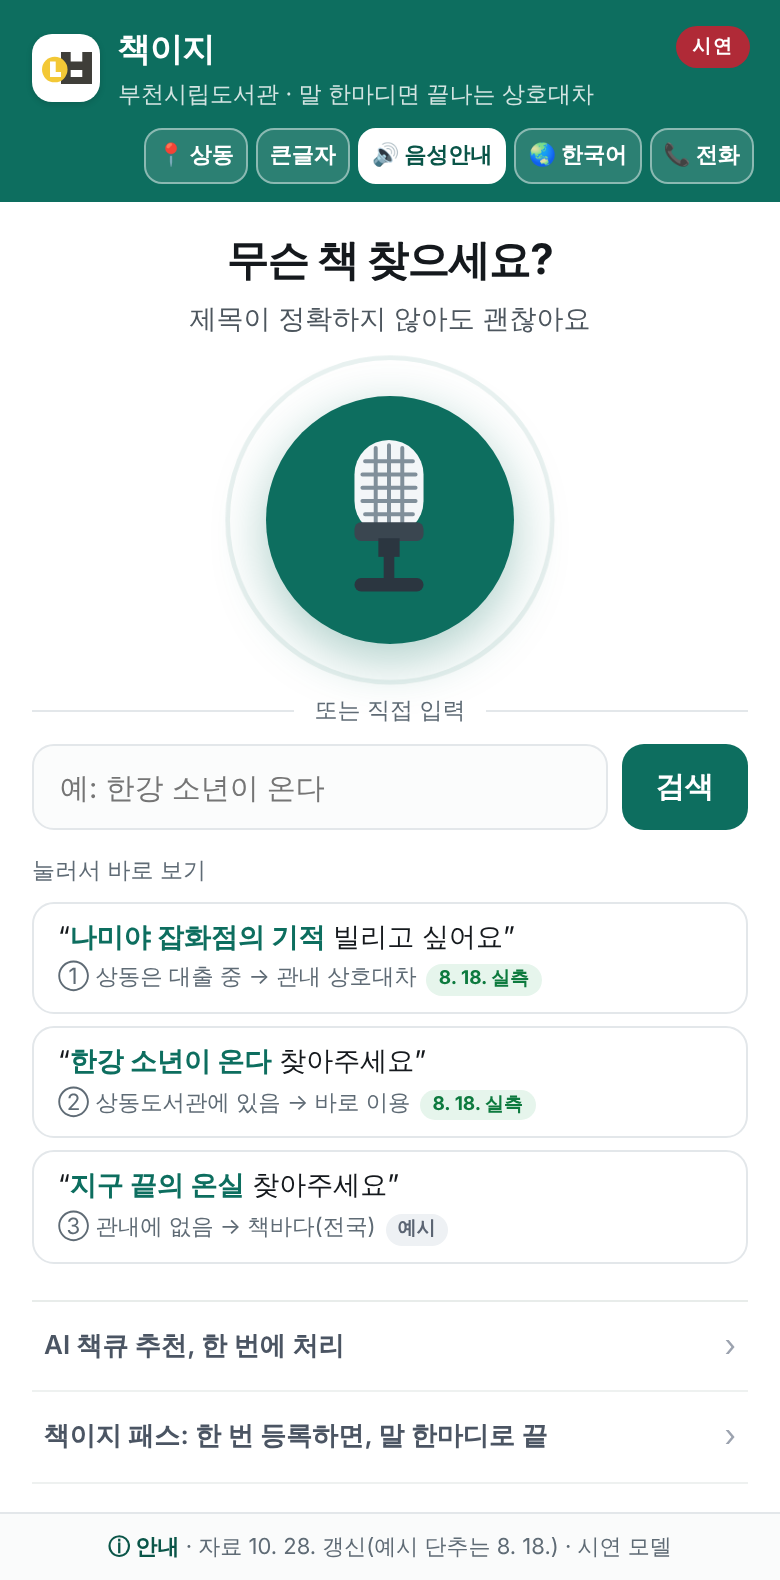
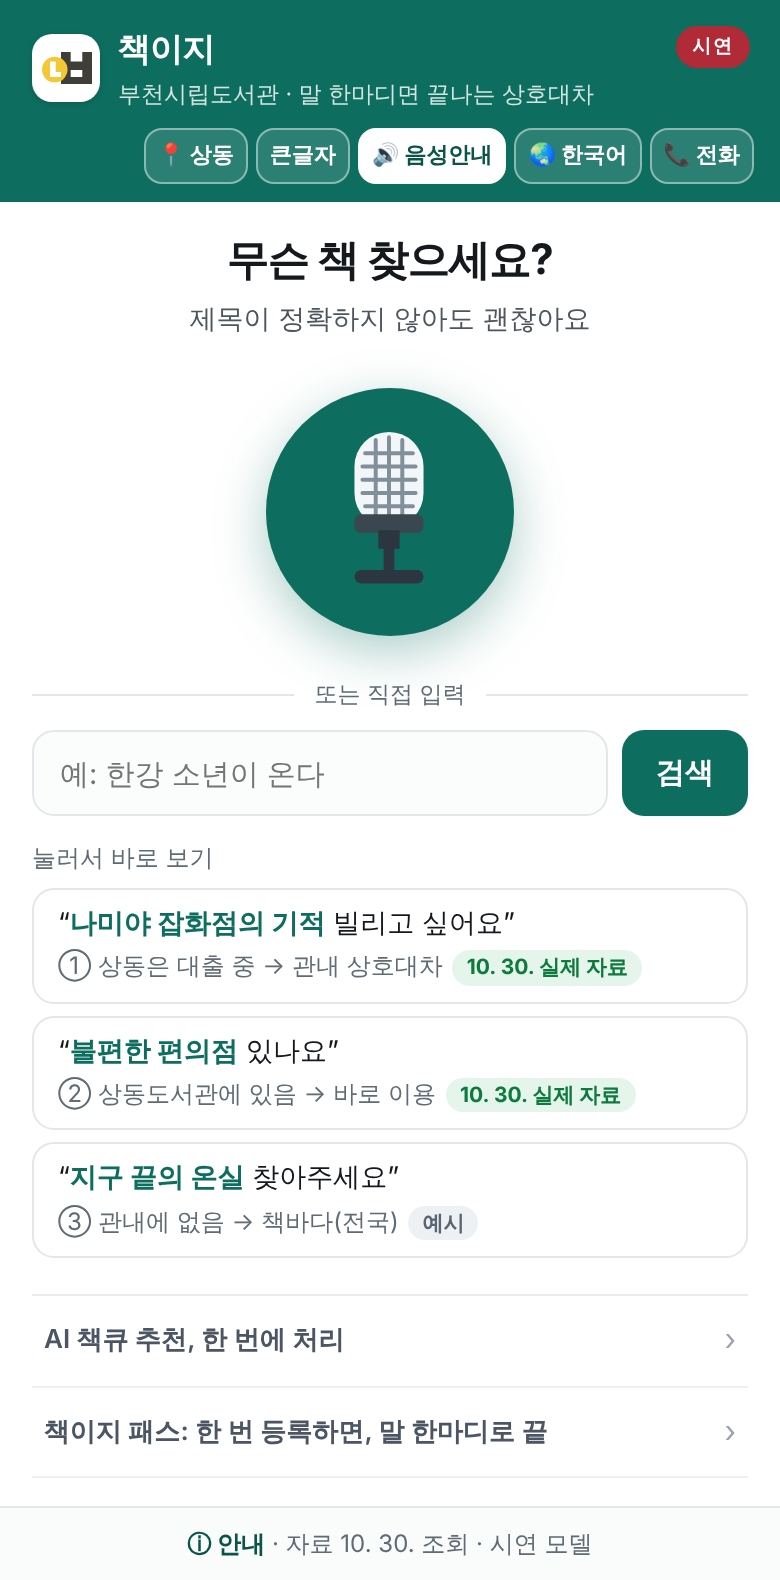
비교 장면 오른쪽을 직원 측정과 같은 순서로(1차 검수 독립 검토 지적, 담당자 10:44 승인): ① 「눌러서 시작하기」 ② 마이크 누르고 책 제목 말하기 ③ 「방문 안내 보기」, 「20초에 안내」
- 휴대폰 그림 5장을 v1.12.20·10. 30. 새벽 자료로 다시 찍음(shoot_app.py: 상동에 대출 가능한 시연 도서를 그날 자료에서 고름, 바깥 요청 0, 음성 인식만 흉내). 전에는 「상호대차 신청 · 네, 신청합니다」 흐름이라 측정(바로 이용 방문 안내)과 달랐음
- 머리글 「같은 책으로 재 보니 / 책이지 시연 화면은 3번 눌러 20초」, 띠 「끝: 누리집은 신청 버튼, 책이지는 「바로 이용」 방문 안내 · 화면은 따로 찍음」
- README 움짤 만드는 스크립트(make_gif.py, 960×540·초당 8장·128색)를 같은 그림에서 · record.py 4장면 글도 같게

Claude-Session: https://claude.ai/code/session_01TtT9xcbTP3NzSioNJT8Spd

diff --git a/tools/video/cmp/compare.html b/tools/video/cmp/compare.html
@@ -1,6 +1,6 @@
 <!doctype html>
 <html lang="ko"><head><meta charset="utf-8">
-<title>비교 장면 2판</title>
+<title>비교 장면 3판</title>
 <style>
 @font-face{font-family:'Pretendard';font-weight:400;src:url('../fonts/Pretendard-Regular.otf')}
 @font-face{font-family:'Pretendard';font-weight:500;src:url('../fonts/Pretendard-Medium.otf')}
@@ -70,7 +70,7 @@ html,body{margin:0;width:1280px;height:720px;overflow:hidden;background:#0f3d33;
 <div id="stage">
   <div id="crumb"><b>책이지</b> · 왜 만들었나</div>
   <div id="spdb">실제 걸린 시간을 <span id="spd">6</span>배 빨리 보여 줌</div>
-  <div id="hd"><div class="k">같은 책을 신청해 보면</div><div class="t">책이지는 <em>3번 눌러 20초</em></div><div class="s">누리집은 <b>18번 눌러 1분 20초</b></div></div>
+  <div id="hd"><div class="k">같은 책으로 재 보니</div><div class="t">책이지 시연 화면은 <em>3번 눌러 20초</em></div><div class="s">누리집은 <b>18번 눌러 1분 20초</b></div></div>
   <div class="panel" id="pa">
     <div class="ph"><span class="n">누리집(지금)</span><span class="d">로그인부터 신청 버튼까지</span><span class="tag">실제 화면 · 개인정보 가림</span></div>
     <div id="grid">
@@ -87,20 +87,23 @@ html,body{margin:0;width:1280px;height:720px;overflow:hidden;background:#0f3d33;
     <div class="meter"><div class="m"><span class="v" id="ca">0</span><span class="u">번 누름</span></div><div class="m"><span class="v" id="ta">0초</span><span class="u">걸린 시간</span></div></div>
   </div>
   <div class="panel" id="pb">
-    <div class="ph"><span class="n">책이지</span><span class="d">시연 화면</span><span class="tag">실제 화면</span></div>
-    <div id="phone"><img id="pimg" src="app_home.png" alt=""></div>
+    <div class="ph"><span class="n">책이지</span><span class="d">시연 화면 · 말로 묻기</span><span class="tag">실제 화면 · 따로 찍음</span></div>
+    <div id="phone"><img id="pimg" src="app_gate.png" alt=""></div>
     <div id="ptap"></div>
-    <div id="bsteps"><div data-n="1">책 제목을 말하거나 입력</div><div data-n="2">「상호대차 신청」</div><div data-n="3">「네, 신청합니다」</div></div>
-    <div id="stamp">✓ 20초 만에 끝</div>
+    <div id="bsteps"><div data-n="1">「눌러서 시작하기」</div><div data-n="2">마이크 누르고 책 제목 말하기</div><div data-n="3">「방문 안내 보기」</div></div>
+    <div id="stamp">✓ 20초에 안내</div>
     <div class="meter"><div class="m"><span class="u">누른 수</span><span class="v" id="cb">0번</span></div><div class="m"><span class="u">걸린 시간</span><span class="v" id="tb">0초</span></div></div>
   </div>
-  <div id="bar"><span id="bar1">개발에 참여하지 않은 직원 3명이 시연 도서 5권으로 잰 가운데값(2026. 10. 27.)</span><small id="bar2">책마다 3명 평균 · 왼쪽은 실제 누리집 화면(개인정보 가림), 누른 수와 시간은 측정 기록 · 시연 화면의 신청은 실제 접수가 아닙니다 · 기록은 저장소 server/lab/out</small></div>
+  <div id="bar"><span id="bar1">개발에 참여하지 않은 직원 3명이 시연 도서 5권으로 잰 가운데값(2026. 10. 27.)</span><small id="bar2">책마다 3명 평균 · 끝: 누리집은 신청 버튼, 책이지는 「바로 이용」 방문 안내 · 화면은 따로 찍음(누리집은 개인정보 가림) · 기록은 저장소 server/lab/out</small></div>
 </div>
+<script src="app_shots.js"></script>
 <script>
 const $=id=>document.getElementById(id);
 const scrs=[...document.querySelectorAll('#grid .scr')];
 const clicks=scrs.map(s=>+s.dataset.c);            // 2+3+2+2+3+2+2+2 = 18(장면별 나눔은 그림용, 합계만 측정값)
-const A_TOTAL=80, B_TOTAL=20, A_N=18, B_AT=[5,12,20];
+const A_TOTAL=80, B_TOTAL=20, A_N=18, B_AT=[2,6,18];   // 오른쪽: ① 시작 ② 마이크 ③ 방문 안내 보기(누른 때는 그림용, 합계 3번·20초만 측정값)
+const SHOT=window.APP_SHOTS||{taps:{gate:[195,450],mic:[195,256],apply:[195,523]}};   // shoot_app.py가 찍은 화면의 누른 곳(390폭 기준)
+const PS=174/390, TAPXY=[SHOT.taps.gate,SHOT.taps.mic,SHOT.taps.apply].map(([x,y])=>[22+6+x*PS,62+6+y*PS]);
 const names=scrs.map(s=>s.querySelector('.lbl').textContent);
 function fmt(s){s=Math.round(s);const m=Math.floor(s/60),x=s%60;return (m?m+'분 ':'')+x+'초';}
 let lastA=-1,lastB=-1;
@@ -119,10 +122,10 @@ function setT(t){
   // B
   const cb=B_AT.filter(x=>t>=x).length;
   $('cb').textContent=cb+'번'; $('tb').textContent=fmt(Math.min(B_TOTAL,t));
-  $('pimg').src = cb>=3?'app_done.png':cb===2?'app_confirm.png':cb===1?'app_result.png':(t>=2?'app_typed.png':'app_home.png');
+  $('pimg').src = cb>=3?'app_visit.png':t>=11?'app_result.png':cb===2?'app_listen.png':cb===1?'app_home.png':'app_gate.png';
   [...document.querySelectorAll('#bsteps div')].forEach((d,i)=>d.classList.toggle('on',i<cb));
   $('stamp').classList.toggle('on', t>=B_TOTAL); $('pb').classList.toggle('win', t>=B_TOTAL);
-  if(cb!==lastB){ lastB=cb; if(cb>0){ const p=$('ptap'); p.style.left=(22+93)+'px'; p.style.top=(62+(cb===1?110:330))+'px'; p.classList.remove('go'); void p.offsetWidth; p.classList.add('go'); } }
+  if(cb!==lastB){ lastB=cb; if(cb>0){ const p=$('ptap'), xy=TAPXY[cb-1]; p.style.left=xy[0]+'px'; p.style.top=xy[1]+'px'; p.classList.remove('go'); void p.offsetWidth; p.classList.add('go'); } }
 }
 try{ const q=new URLSearchParams(location.search); if(q.get('spd')) $('spd').textContent=q.get('spd'); }catch(e){}
 window.setT=setT; setT(0);

diff --git a/tools/video/cmp/app_shots.js b/tools/video/cmp/app_shots.js
@@ -1,0 +1,2 @@
+/* shoot_app.py가 만든 값(손으로 고치지 않음) */
+window.APP_SHOTS = {"asof": "2026-10-30", "asofKo": "10. 30.", "book": "불편한 편의점", "button": "방문 안내 보기", "viewport": [390, 790], "taps": {"gate": [195, 450], "mic": [195, 256], "apply": [195, 523]}};

diff --git a/tools/video/cmp/shoot_app.py b/tools/video/cmp/shoot_app.py
@@ -1,0 +1,112 @@
+#!/usr/bin/env python3
+# -*- coding: utf-8 -*-
+"""비교 장면 오른쪽(책이지 시연 화면)의 휴대폰 그림을 찍는다. 직원 측정(2026. 10. 27.)과 같은 순서로:
+① 「눌러서 시작하기」 ② 마이크를 누르고 책 제목 말하기 ③ 「방문 안내 보기」
+(받을 도서관 상동에 책이 있어 「바로 이용」 방문 안내까지. server/lab/out/apply_steps_staff_2026-10-27.md)
+
+  python3 -m http.server 8790 --bind 127.0.0.1      # 저장소 루트에서(시연 웹을 띄움)
+  python3 tools/video/cmp/shoot_app.py [http://127.0.0.1:8790/index.html]
+
+- 바깥 주소로 나가는 요청은 모두 막는다(정보나루·중계 호출 0회). 화면은 띄운 시연 웹의 그날 새벽 자료(data/holdings-today.json)로 판정한다.
+- 책은 그날 자료에서 상동에 대출 가능한 시연 도서를 고른다(불편한 편의점 먼저: 예시 단추 ②와 같은 책).
+  지구 끝의 온실은 말해도 예시 장면(책바다)이라 빼고, 나미야 잡화점의 기적은 예시 단추 ①(상동 대출 중 장면)과 헷갈리지 않게 맨 뒤.
+- 이 환경에는 마이크가 없어 음성 인식만 흉내 낸다(말한 글자를 낱말 단위로 차례로 넘김). 그 밖의 화면 동작은 실제 시연 웹 그대로다.
+- 처음 안내는 이미 본 것으로 둔다(다시 온 이용자). 처음 온 이용자는 처음 안내의 「시작하기」가 ①의 누름을 대신한다.
+- 결과: app_gate.png · app_home.png · app_listen.png · app_result.png · app_visit.png(390×790, 2배)와
+  app_shots.js(찍은 날의 자료 조회일, 고른 책, 누른 곳의 좌표. compare.html이 읽음)."""
+import asyncio, json, os, sys, urllib.request
+from playwright.async_api import async_playwright
+
+HERE = os.path.dirname(os.path.abspath(__file__))
+BASE = sys.argv[1] if len(sys.argv) > 1 else "http://127.0.0.1:8790/index.html"
+ORIGIN = "/".join(BASE.split("/")[:3])
+W, H = 390, 790
+
+snap = json.load(urllib.request.urlopen(BASE.rsplit("/", 1)[0] + "/data/holdings-today.json"))   # 띄운 시연 웹이 읽는 바로 그 파일
+ASOF = snap["asof"]                                   # 예: 2026-10-30
+TITLES = {"9791161571188": "불편한 편의점", "9788936434120": "소년이 온다",
+          "9791195794799": "설민석의 한국사 대모험", "9788972756194": "나미야 잡화점의 기적"}
+BOOK = next((t for k, t in TITLES.items() if snap["holdings"].get(k, {}).get("상동") == "ok"), None)
+if not BOOK:
+    sys.exit(f"{ASOF} 자료에 상동에 대출 가능한 시연 도서가 없어 「바로 이용」 흐름을 찍을 수 없습니다")
+
+FAKE_SR = """
+(() => {
+  try { localStorage.setItem('chaekiji.intro', '1'); } catch (e) {}
+  const SAY = %s;
+  class FakeSR {
+    constructor(){ this.lang = 'ko-KR'; this.interimResults = true; this.maxAlternatives = 3; this.continuous = false; }
+    start(){
+      const me = this, words = SAY.split(' '); let acc = '';
+      setTimeout(() => me.onstart && me.onstart(), 60);
+      words.forEach((w, i) => setTimeout(() => {
+        acc = acc ? acc + ' ' + w : w; const row = [{transcript: acc}]; row.isFinal = false;
+        me.onresult && me.onresult({results: [row]}); }, 700 + i * 700));
+      setTimeout(() => { const row = [{transcript: SAY}]; row.isFinal = true; me.onresult && me.onresult({results: [row]}); },
+                 700 + words.length * 700 + 1800);
+    }
+    stop(){} abort(){}
+  }
+  window.SpeechRecognition = FakeSR; window.webkitSpeechRecognition = FakeSR;
+})();
+""" % json.dumps(BOOK, ensure_ascii=False)
+
+
+async def center(pg, sel):
+    b = await pg.locator(sel).first.bounding_box()
+    return [round(b["x"] + b["width"] / 2), round(b["y"] + b["height"] / 2)]
+
+
+async def main():
+    async with async_playwright() as p:
+        br = await p.chromium.launch()
+        ctx = await br.new_context(viewport={"width": W, "height": H}, device_scale_factor=2, locale="ko-KR",
+                                   has_touch=True, service_workers="block")
+        outside = []
+        async def guard(route):
+            if route.request.url.startswith(ORIGIN):
+                await route.continue_()
+            else:
+                outside.append(route.request.url); await route.abort()
+        await ctx.route("**/*", guard)
+        await ctx.add_init_script(FAKE_SR)
+        pg = await ctx.new_page()
+        errs = []; pg.on("pageerror", lambda e: errs.append(str(e)))
+        await pg.clock.install(time=f"{ASOF}T01:30:00Z")          # 그날 오전 10:30(한국 시각)
+        await pg.goto(BASE, wait_until="load"); await pg.wait_for_timeout(1500)
+        taps = {}
+        g = pg.locator("#gateGo")
+        if not (await g.count() and await g.is_visible()):
+            sys.exit("「눌러서 시작하기」 화면이 보이지 않습니다")
+        await pg.screenshot(path=f"{HERE}/app_gate.png"); taps["gate"] = await center(pg, "#gateGo")
+        await g.click(); await pg.wait_for_timeout(2200)
+        await pg.screenshot(path=f"{HERE}/app_home.png"); taps["mic"] = await center(pg, "#micbtn")
+        await pg.locator("#micbtn").click()
+        await pg.wait_for_function("(w) => { const e = document.getElementById('lst2'); return e && e.classList.contains('heard') && e.textContent.includes(w); }",
+                                   arg=BOOK.split(" ")[-1], timeout=15000)
+        await pg.wait_for_timeout(250)
+        await pg.screenshot(path=f"{HERE}/app_listen.png")
+        await pg.wait_for_selector("#s-result.on #apply", timeout=25000); await pg.wait_for_timeout(1500)
+        res = await pg.evaluate("document.getElementById('s-result').innerText")
+        if "바로 이용" not in res:
+            sys.exit("판정이 「바로 이용」이 아닙니다: " + res[:200])
+        await pg.screenshot(path=f"{HERE}/app_result.png"); taps["apply"] = await center(pg, "#apply")
+        btn = (await pg.locator("#apply").inner_text()).strip()
+        await pg.locator("#apply").click(); await pg.wait_for_timeout(1500)
+        await pg.screenshot(path=f"{HERE}/app_visit.png")
+        done = await pg.evaluate("document.getElementById('s-done').innerText")
+        await br.close()
+    if outside:
+        print("막은 바깥 요청:", outside[:5])
+    y, m, d = ASOF.split("-")
+    meta = {"asof": ASOF, "asofKo": f"{int(m)}. {int(d)}.", "book": BOOK, "button": btn, "viewport": [W, H], "taps": taps}
+    with open(f"{HERE}/app_shots.js", "w", encoding="utf-8") as f:
+        f.write("/* shoot_app.py가 만든 값(손으로 고치지 않음) */\nwindow.APP_SHOTS = " + json.dumps(meta, ensure_ascii=False) + ";\n")
+    print(json.dumps(meta, ensure_ascii=False))
+    print("결과 화면:", " / ".join(res.split("\n")[:6]))
+    print("방문 안내:", " / ".join(done.split("\n")[:5]))
+    print("바깥 요청", len(outside), "· 오류", len(errs), errs[:2])
+    if outside or errs:
+        sys.exit(1)
+
+asyncio.run(main())

diff --git a/tools/video/cmp/make_gif.py b/tools/video/cmp/make_gif.py
@@ -1,0 +1,47 @@
+#!/usr/bin/env python3
+# -*- coding: utf-8 -*-
+"""README 맨 위 비교 움짤(docs/img/compare.gif)을 compare.html에서 만든다. 영상의 비교 장면과 같은 그림이다.
+
+  python3 tools/video/cmp/shoot_app.py          # 오른쪽 휴대폰 그림을 먼저(같은 날 자료로)
+  python3 tools/video/cmp/make_gif.py [출력.gif]   # 기본: tools/video/out/compare.gif → main의 docs/img/compare.gif로 옮김
+
+- 실제 걸린 시간을 6배 빠르게(초당 8장, 한 장에 0.75초씩), 1280×720으로 찍어 960×540으로 줄인다. 끝 화면은 3.5초 머문다.
+- 색은 ffmpeg 팔레트(128색, 흩뿌림 없음)로 줄인다. 흩뿌림을 넣으면 파일이 25% 커지는데 이 크기에서는 차이가 보이지 않았다(10. 30.)."""
+import asyncio, os, shutil, subprocess, sys
+from playwright.async_api import async_playwright
+
+HERE = os.path.dirname(os.path.abspath(__file__))
+OUT = sys.argv[1] if len(sys.argv) > 1 else os.path.join(HERE, "..", "out", "compare.gif")
+FR = os.path.join(HERE, "..", "out", "cmp_frames")
+SPD, FPS, END, HOLD = 6.0, 8, 80.0, 28
+
+
+async def frames():
+    shutil.rmtree(FR, ignore_errors=True); os.makedirs(FR)
+    ts = [0.0] * 4; t = 0.0
+    while t < END:
+        ts.append(round(t, 3)); t += SPD / FPS
+    ts += [END] * HOLD
+    async with async_playwright() as p:
+        b = await p.chromium.launch(); pg = await b.new_page(viewport={"width": 1280, "height": 720})
+        errs = []; pg.on("pageerror", lambda e: errs.append(str(e)))
+        await pg.goto("file://" + os.path.join(HERE, "compare.html") + f"?spd={SPD:g}")
+        await pg.evaluate("document.fonts.ready"); await pg.wait_for_timeout(600)
+        for n, t in enumerate(ts):
+            await pg.evaluate(f"setT({t})"); await pg.wait_for_timeout(int(1000 / FPS) - 25)
+            await pg.screenshot(path=f"{FR}/{n:03d}.png")
+        await b.close()
+    if errs:
+        sys.exit("화면 오류: " + "; ".join(errs[:3]))
+    return len(ts)
+
+
+n = asyncio.run(frames())
+os.makedirs(os.path.dirname(os.path.abspath(OUT)), exist_ok=True)
+pal = os.path.join(FR, "palette.png")
+sc = "scale=960:540:flags=lanczos"
+subprocess.run(["ffmpeg", "-v", "error", "-y", "-framerate", str(FPS), "-i", f"{FR}/%03d.png",
+                "-vf", f"{sc},palettegen=max_colors=128:stats_mode=full", pal], check=True)
+subprocess.run(["ffmpeg", "-v", "error", "-y", "-framerate", str(FPS), "-i", f"{FR}/%03d.png", "-i", pal,
+                "-lavfi", f"{sc}[x];[x][1:v]paletteuse=dither=none:diff_mode=rectangle", "-loop", "0", OUT], check=True)
+print(f"{OUT} · {n}장 · {os.path.getsize(OUT) // 1024}KB")

diff --git a/tools/video/record.py b/tools/video/record.py
@@ -276,13 +276,13 @@ async def main():
         await W(max(600, w2 - step * 4 - int(step * 2.1)))
         await hold("01")
 
-        # ── 4. 같은 책을 신청해 보면(비교 장면, 4배속) ──
-        scene("04", "4 같은 책을 신청해 보면(비교)", "왼쪽 누리집 실제 화면 8장(개인정보 가림)에 누른 수·시간이 오름, 오른쪽 책이지 시연 화면은 3번 만에 「20초 만에 끝」. 실제 걸린 시간을 4배 빨리. 직원 3명이 시연 도서 5권으로 잰 가운데값(책마다 평균, 2026. 10. 27.)")
+        # ── 4. 같은 책으로 재 보니(비교 장면, 4배속) ──
+        scene("04", "4 같은 책으로 재 보니(비교)", "왼쪽 누리집 실제 화면 8장(개인정보 가림)에 누른 수·시간이 오름, 오른쪽 책이지 시연 화면은 측정과 같은 순서(「눌러서 시작하기」 · 마이크 누르고 책 제목 말하기 · 「방문 안내 보기」)로 3번 만에 「20초에 안내」. 실제 걸린 시간을 4배 빨리. 직원 3명이 시연 도서 5권으로 잰 가운데값(책마다 평균, 2026. 10. 27.)")
         await crumb("")
         await page.evaluate("s=>cmpLoad(s)", "/tools/video/cmp/compare.html?spd=4")
         await ev("only('cmpf')")
-        cue("같은 책을 신청해 보면 책이지는 3번 눌러 20초, 누리집은 18번 눌러 1분 20초",
-            "개발에 참여하지 않은 직원 3명이 시연 도서 5권으로 잰 가운데값(책마다 평균, 2026. 10. 27.) · 왼쪽은 실제 누리집 화면(개인정보 가림) · 시연 화면의 신청은 실제 접수가 아닙니다")
+        cue("같은 책으로 재 보니 책이지 시연 화면은 3번 눌러 20초, 누리집은 18번 눌러 1분 20초",
+            "개발에 참여하지 않은 직원 3명이 시연 도서 5권으로 잰 가운데값(책마다 평균, 2026. 10. 27.) · 끝: 누리집은 신청 버튼, 책이지는 「바로 이용」 방문 안내 · 화면은 따로 찍음(누리집은 개인정보 가림)")
         await W(400)
         await page.evaluate("cmpPlay(4)")
         await W(700)
